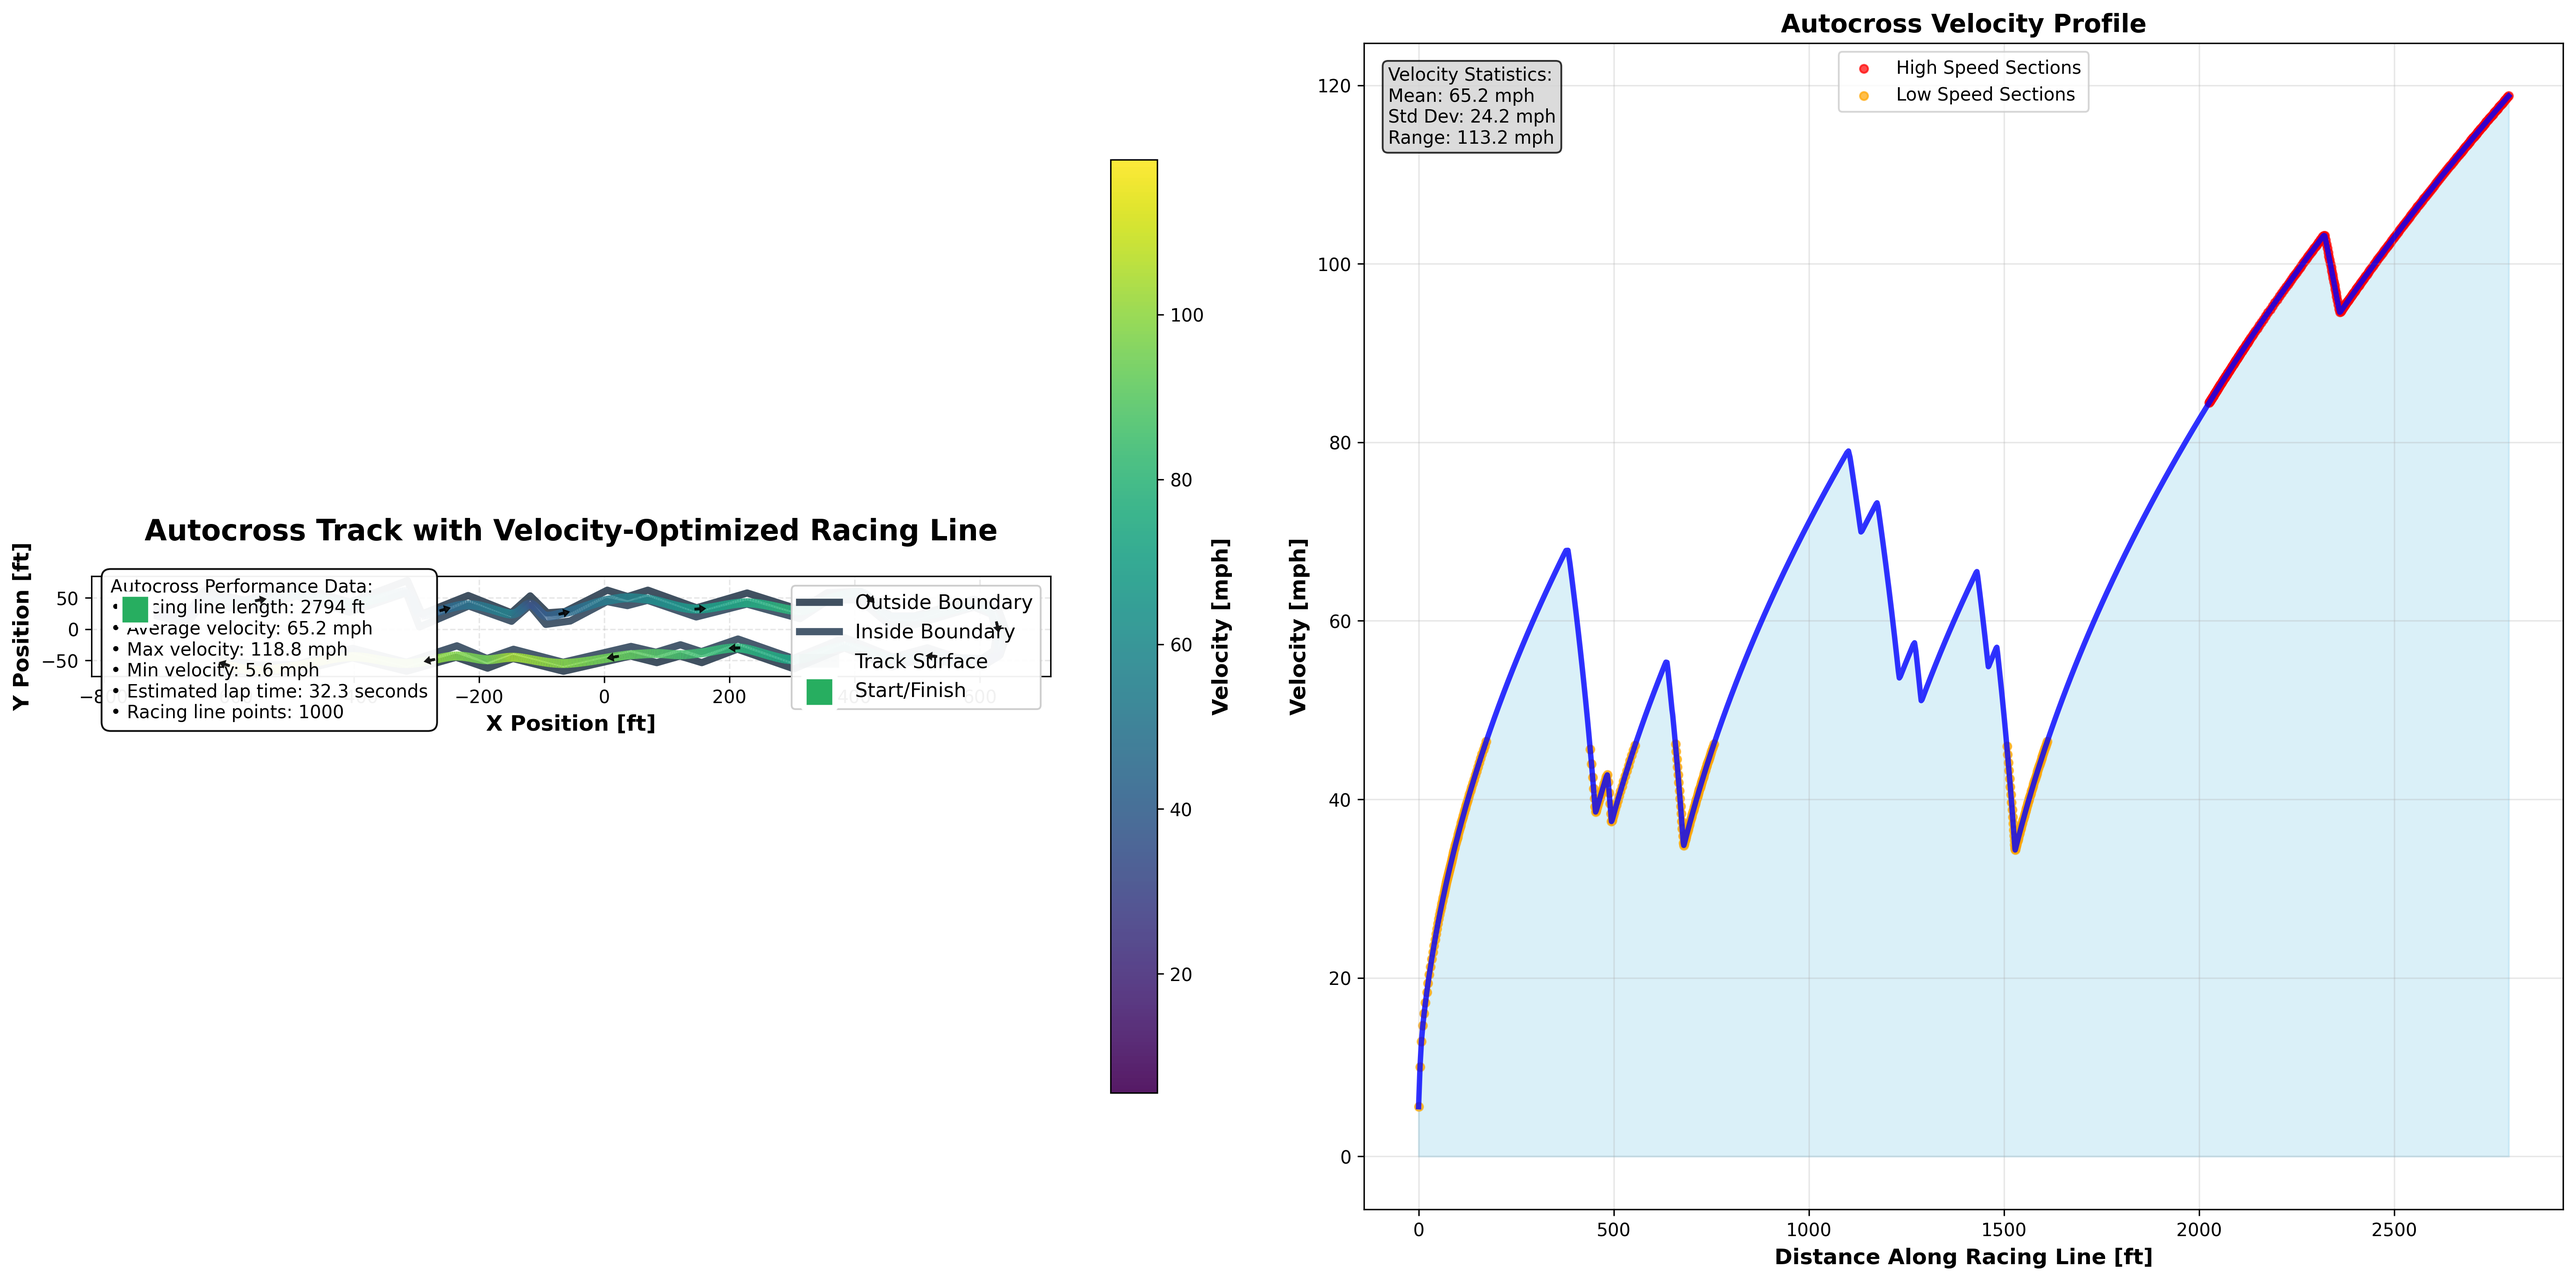
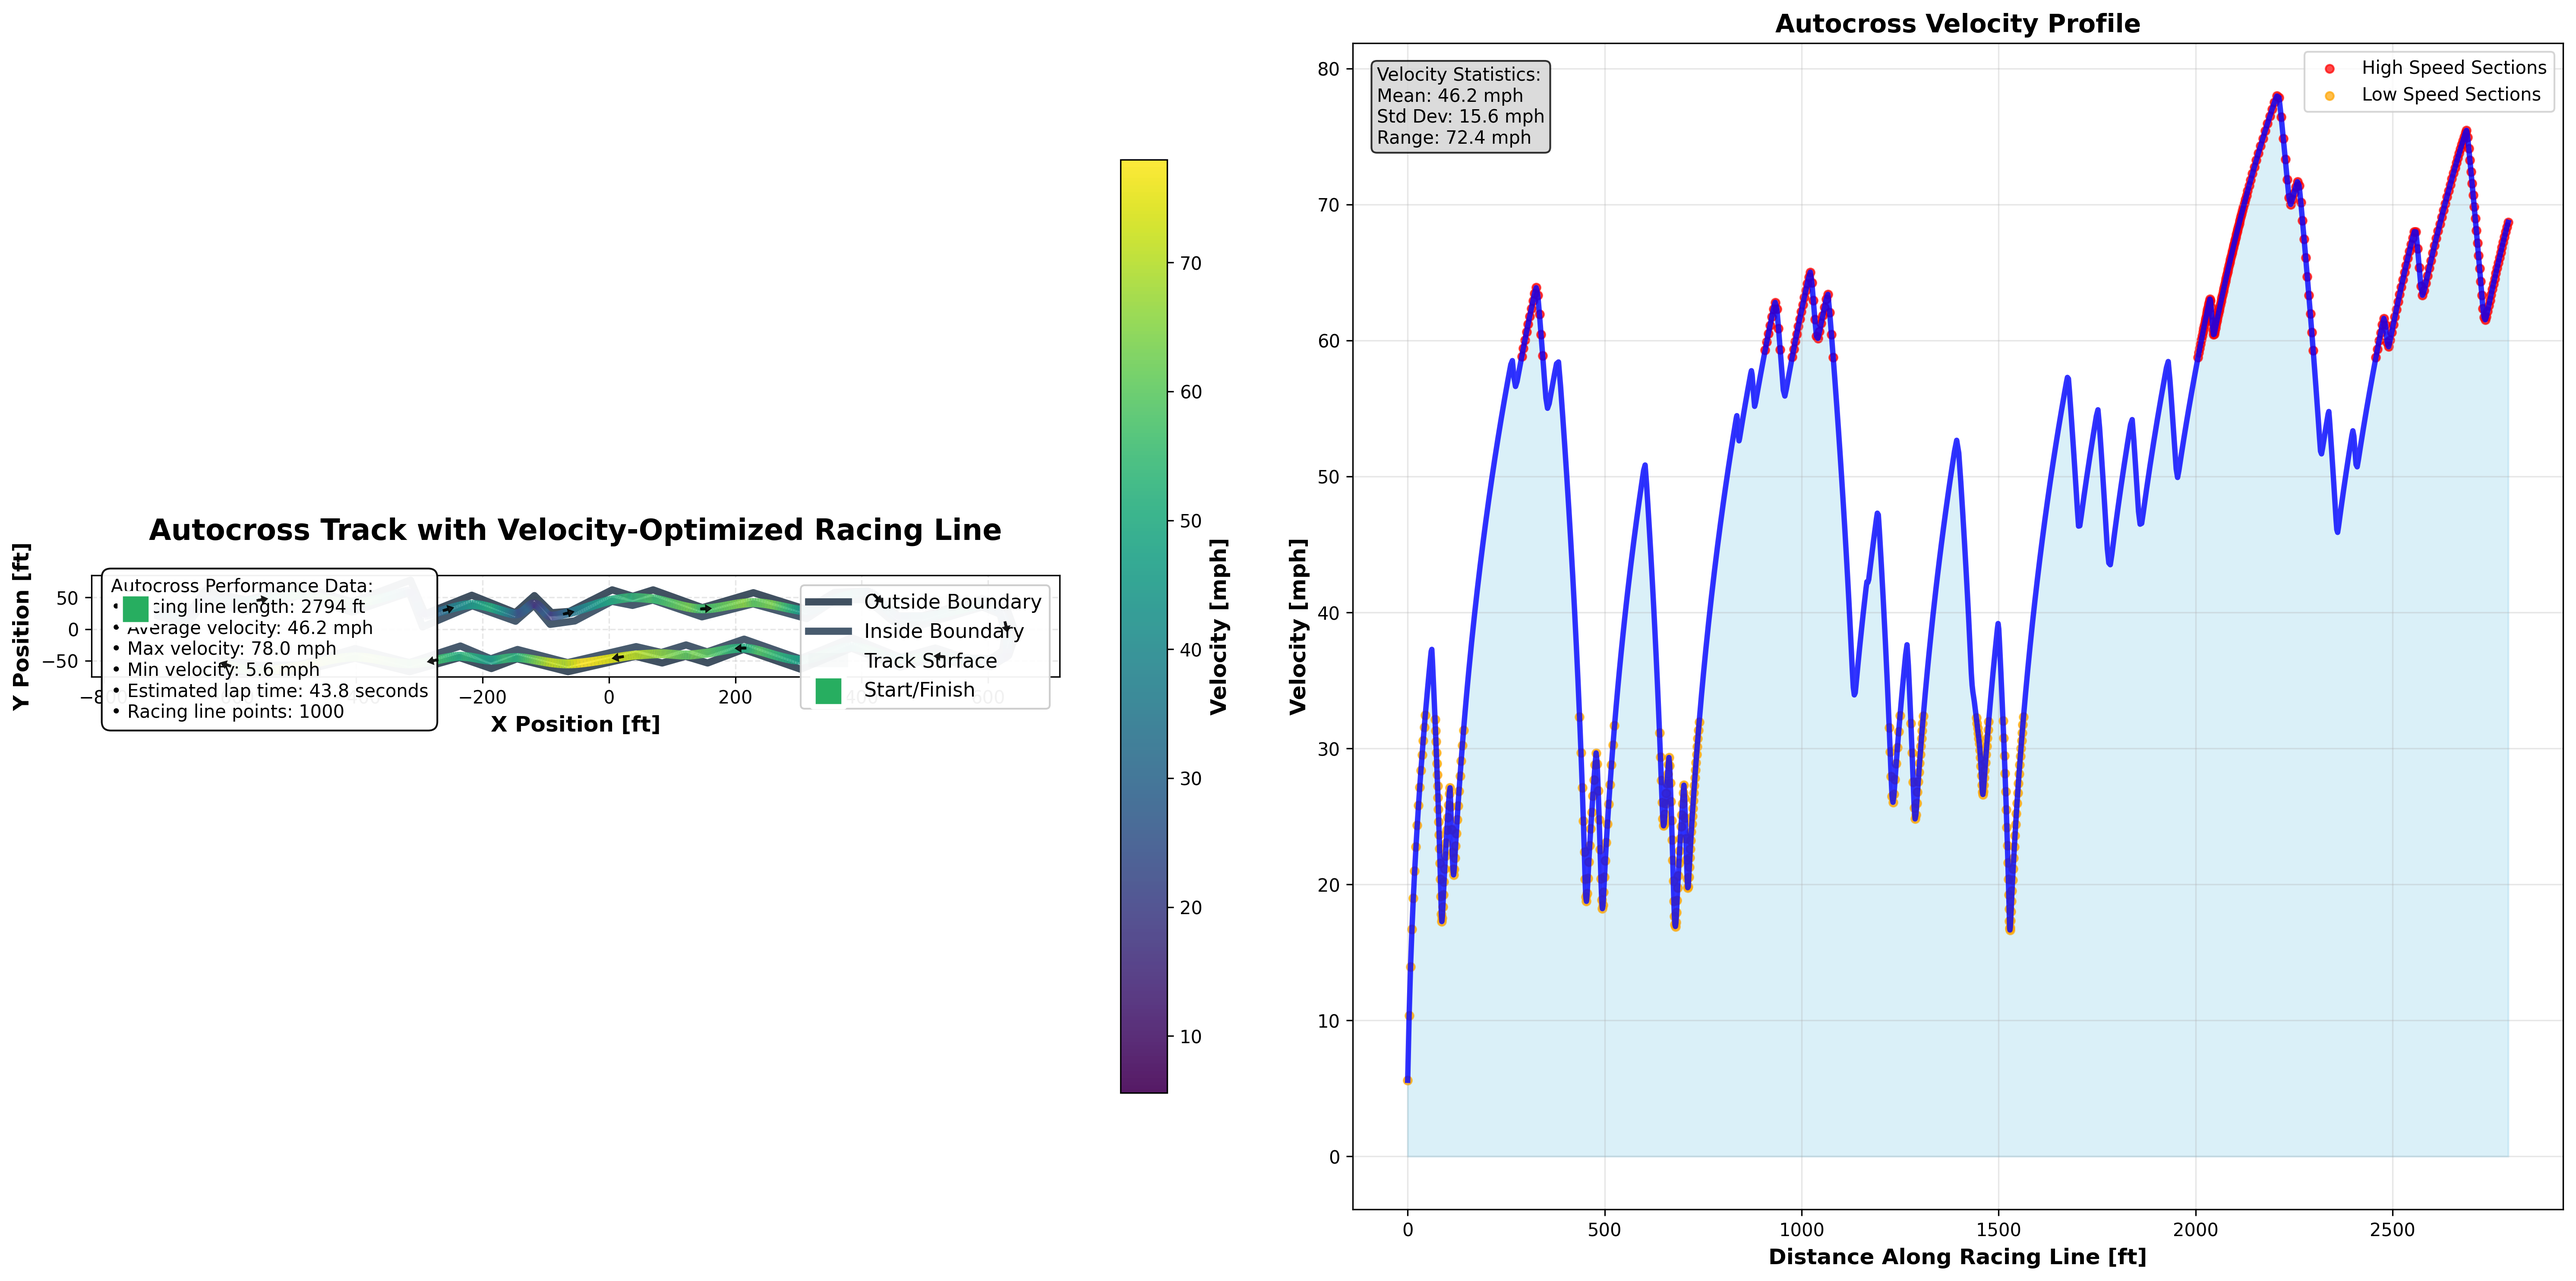
Uses config python values

diff --git a/python/lap_simulation/physics.py b/python/lap_simulation/physics.py
@@ -8,6 +8,12 @@ Calculates realistic velocities based on vehicle dynamics, track geometry, and r
 
 import numpy as np
 from scipy.ndimage import gaussian_filter1d
+import sys
+import os
+
+# Add parent directory to path to import vehicle_config
+sys.path.append(os.path.dirname(os.path.dirname(os.path.abspath(__file__))))
+from vehicle_config import get_vehicle_config, TIRE_MF52_PARAMS
 
 
 def calculate_realistic_velocities(x_coords, y_coords, track_type):
@@ -58,7 +64,7 @@ def calculate_realistic_velocities(x_coords, y_coords, track_type):
 
 def get_vehicle_parameters(track_type):
     """
-    Get vehicle parameters based on track type.
+    Get vehicle parameters based on track type using vehicle_config.py values.
     
     Parameters:
     -----------
@@ -70,15 +76,27 @@ def get_vehicle_parameters(track_type):
     dict
         Vehicle parameter dictionary
     """
-    # Base vehicle parameters (realistic FSAE values)
+    # Get base vehicle configuration from vehicle_config.py
+    config = get_vehicle_config()
+    
+    # Convert units and calculate derived parameters
     vehicle_params = {
-        'mass': 617.4,  # lbs (280 kg)
-        'cg_height': 0.88,  # ft (0.267 m)
-        'wheelbase': 5.09,  # ft (1.55 m)
-        'track_width': 4.0,  # ft (1.22 m)
-        'tire_mu': 1.5,  # realistic peak friction coefficient for FSAE tires
-        'aero_cl': 1.5,  # reduced downforce coefficient
-        'aero_cd': 1.2,  # realistic drag coefficient
+        # Mass properties (convert from metric to imperial for internal calculations)
+        'mass': config['mass'] * 2.205,  # kg to lbs
+        'cg_height': config['cg_height'] * 3.281,  # m to ft
+        'wheelbase': config['wheelbase'] * 3.281,  # m to ft
+        'track_width': config['track_width'] * 3.281,  # m to ft
+        
+        # Tire parameters
+        'tire_mu': TIRE_MF52_PARAMS['mu'],  # Peak friction coefficient
+        
+        # Aerodynamics (convert to imperial units)
+        'aero_cl': config['downforce_coefficient'],
+        'aero_cd': config['drag_coefficient'],
+        'frontal_area': config['frontal_area'] * 10.764,  # m² to ft²
+        'air_density': config['air_density'] * 0.00194,  # kg/m³ to slugs/ft³
+        
+        # Performance limits (realistic estimates based on FSAE capabilities)
         'max_lat_accel': 1.4,  # realistic max lateral g's for FSAE
         'max_lng_accel': 0.8,  # realistic power-limited acceleration
         'max_lng_decel': 1.5,  # realistic braking deceleration
@@ -188,9 +206,13 @@ def calculate_max_cornering_speeds(curvatures, vehicle_params):
             # Calculate downforce at estimated speed (iterative)
             v_est = vehicle_params['base_speed'] * 5280 / 3600  # convert to ft/s for physics
             
-            # Downforce increases effective grip
-            downforce = vehicle_params['aero_cl'] * v_est**2
-            effective_weight = vehicle_params['mass'] + downforce
+            # Downforce calculation: F = 0.5 * ρ * Cl * A * v²
+            # Convert to proper units for imperial system
+            downforce_force = 0.5 * vehicle_params['air_density'] * vehicle_params['aero_cl'] * vehicle_params['frontal_area'] * v_est**2
+            downforce_lbs = downforce_force / 32.2  # convert force to equivalent mass in lbs
+            
+            # Effective weight including downforce
+            effective_weight = vehicle_params['mass'] + downforce_lbs
             
             # Maximum lateral acceleration from tire grip
             max_lat_g = vehicle_params['max_lat_accel'] * vehicle_params['corner_factor']
@@ -252,9 +274,10 @@ def apply_acceleration_limits(x_coords, y_coords, max_cornering_speeds, vehicle_
             # Apply acceleration limit (more generous power model)
             max_accel = vehicle_params['max_lng_accel'] * 32.2  # ft/s²
             
-            # Account for drag (less aggressive drag effect)
-            drag_force = vehicle_params['aero_cd'] * v_prev**2 * 0.5  # Reduce drag impact
-            drag_accel = drag_force / vehicle_params['mass'] * 32.2
+            # Account for drag: F_drag = 0.5 * ρ * Cd * A * v²
+            # Drag force in lbs-force, then convert to acceleration
+            drag_force = 0.5 * vehicle_params['air_density'] * vehicle_params['aero_cd'] * vehicle_params['frontal_area'] * v_prev**2
+            drag_accel = (drag_force / vehicle_params['mass']) * 32.2  # convert to ft/s²
             net_accel = max_accel - drag_accel
             
             # Kinematic equation: v² = v₀² + 2as (more generous acceleration)
